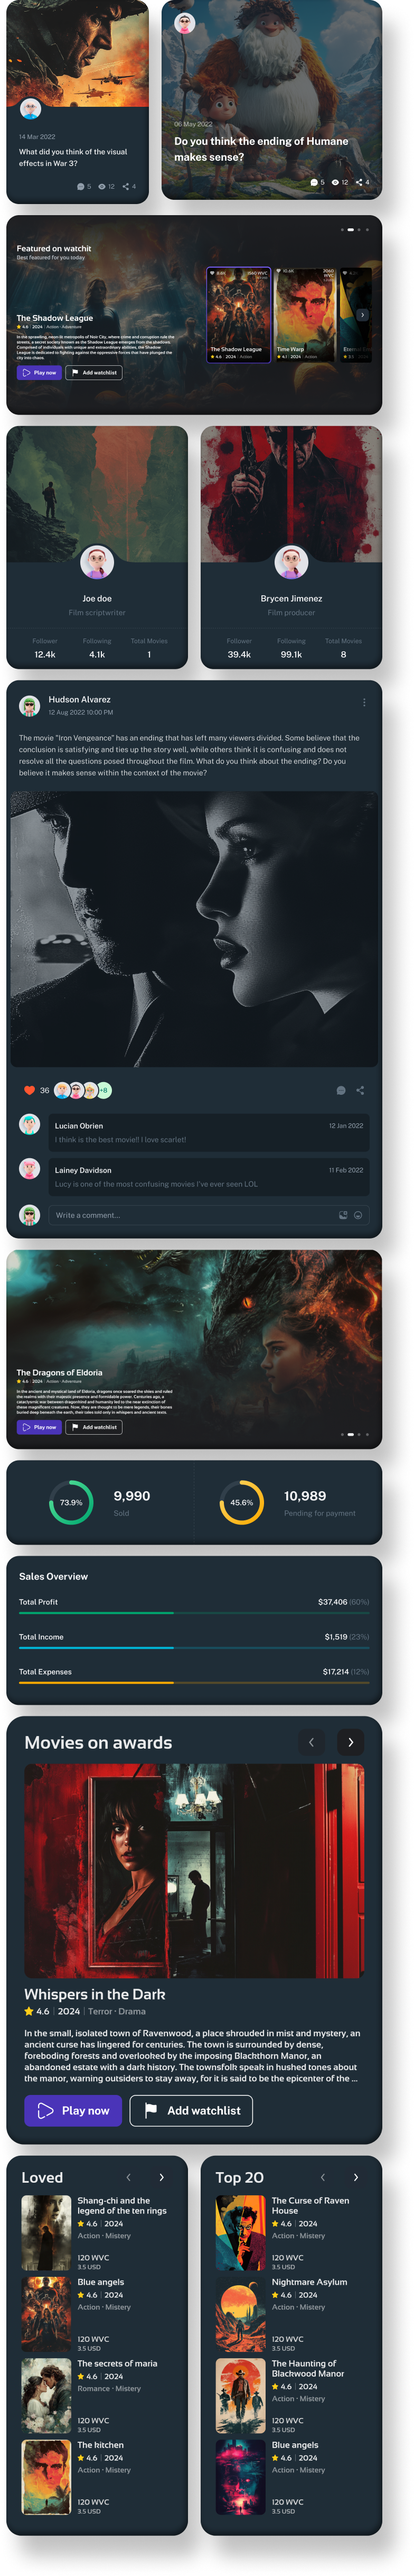
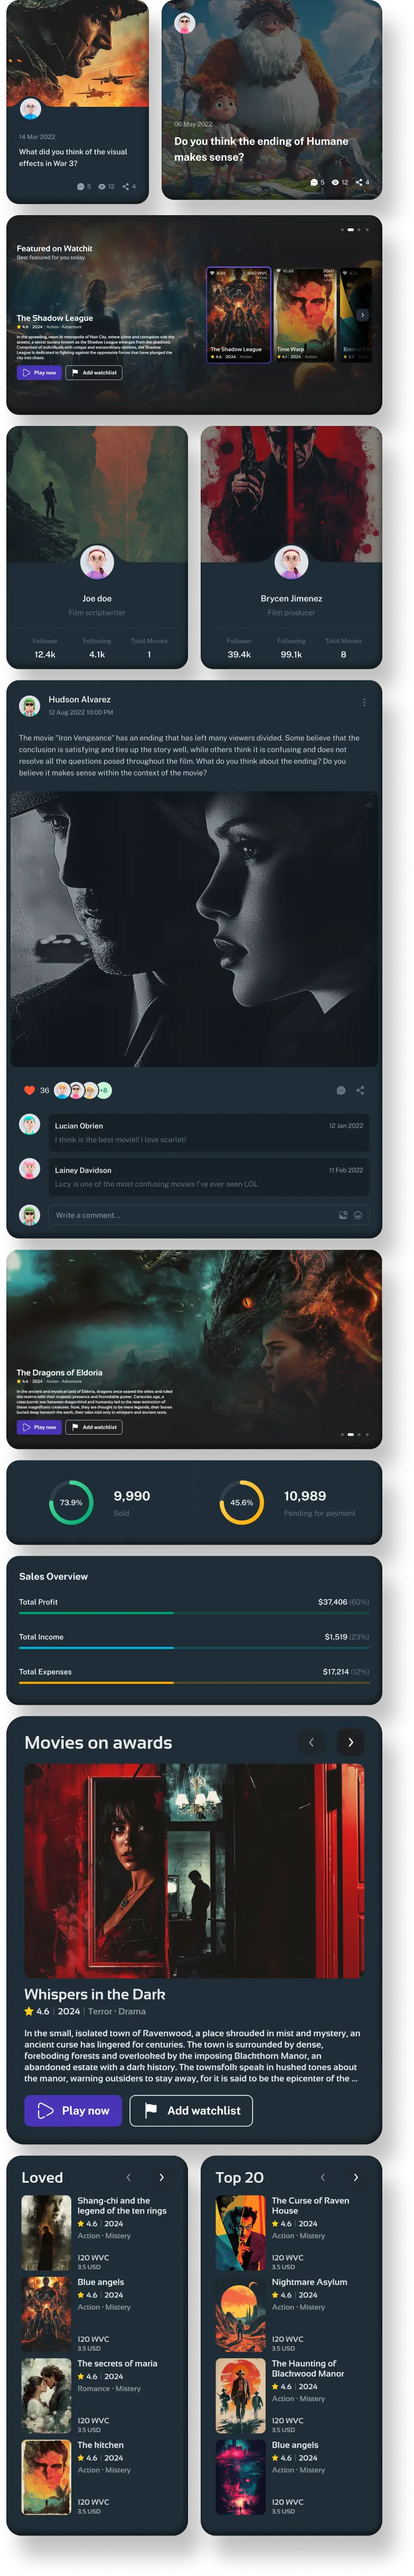
fix: Watchit text and Images

Changed region(s): [[0.551, 0.8422, 0.6429, 0.9358]]

diff --git a/src/sections/home/home-roadmap.tsx b/src/sections/home/home-roadmap.tsx
@@ -21,7 +21,7 @@ export const QUARTERS = [
     color: 'success',
     value: [
       {
-        task: 'WatchIT Website',
+        task: 'Watchit Website',
         isDone: true
       },
       {
